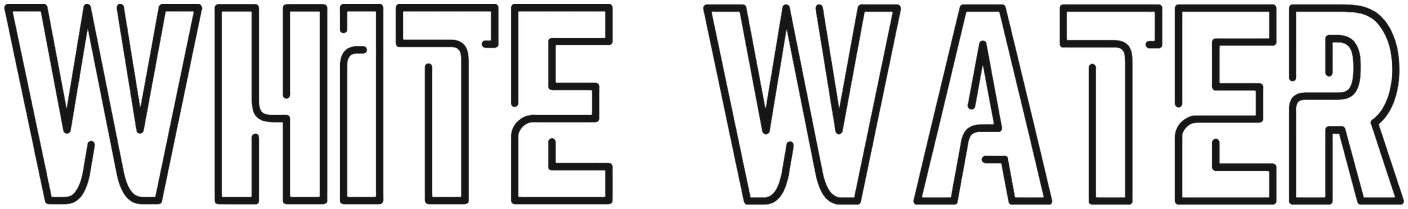
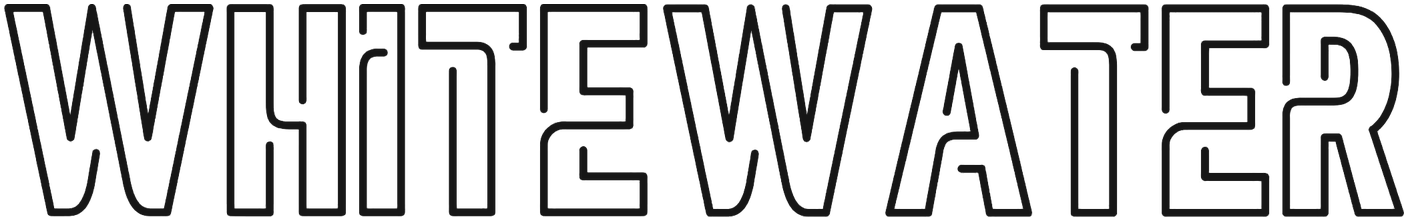
WHITEWATER landing v2: split-screen redesign (EN/PL) with preview deploy
Claude-Session: https://claude.ai/code/session_01JUXjBm22oV1HDke8S14mFC

diff --git a/src/components/Hero.jsx b/src/components/Hero.jsx
@@ -9,7 +9,7 @@ export default function Hero({ t }) {
       <div className="hero-left">
         <div className="hero-brand">
           <h1>
-            <img src="/wordmark.png" width="1408" height="209" alt={t.hero.wordmarkAlt} />
+            <img src="/wordmark.png" width="1408" height="221" alt={t.hero.wordmarkAlt} />
           </h1>
           <a className="pill pill-solid" href={LINKS.album} target="_blank" rel="noopener noreferrer">
             {t.hero.pill}

diff --git a/scripts/make-brand-assets.py b/scripts/make-brand-assets.py
@@ -6,7 +6,7 @@ Run from the project root:  python3 scripts/make-brand-assets.py
 from PIL import Image
 import numpy as np
 
-# --- single-line wordmark from the stacked WHITE / WATER logo
+# --- single-line wordmark (one word) from the stacked WHITE / WATER logo
 src = Image.open("logo/WHITEWATER - AFTERLIFE (2).jpg").convert("RGB")
 alpha = np.clip((np.asarray(src).astype(float)[:, :, 2] / 255.0 - 0.08) / 0.6, 0, 1)
 rows = (alpha > 0.3).sum(axis=1)
@@ -26,7 +26,7 @@ def line(a, b):
 
 l1, l2 = line(y0, gap), line(gap, y1 + 1)
 h = max(l1.shape[0], l2.shape[0])
-gapw = int(h * 0.45)
+gapw = int(h * 0.075)  # normal letter spacing: WHITE + WATER read as one word
 canvas = np.zeros((h, l1.shape[1] + gapw + l2.shape[1]))
 canvas[(h - l1.shape[0]) // 2:(h - l1.shape[0]) // 2 + l1.shape[0], : l1.shape[1]] = l1
 canvas[(h - l2.shape[0]) // 2:(h - l2.shape[0]) // 2 + l2.shape[0], l1.shape[1] + gapw:] = l2
